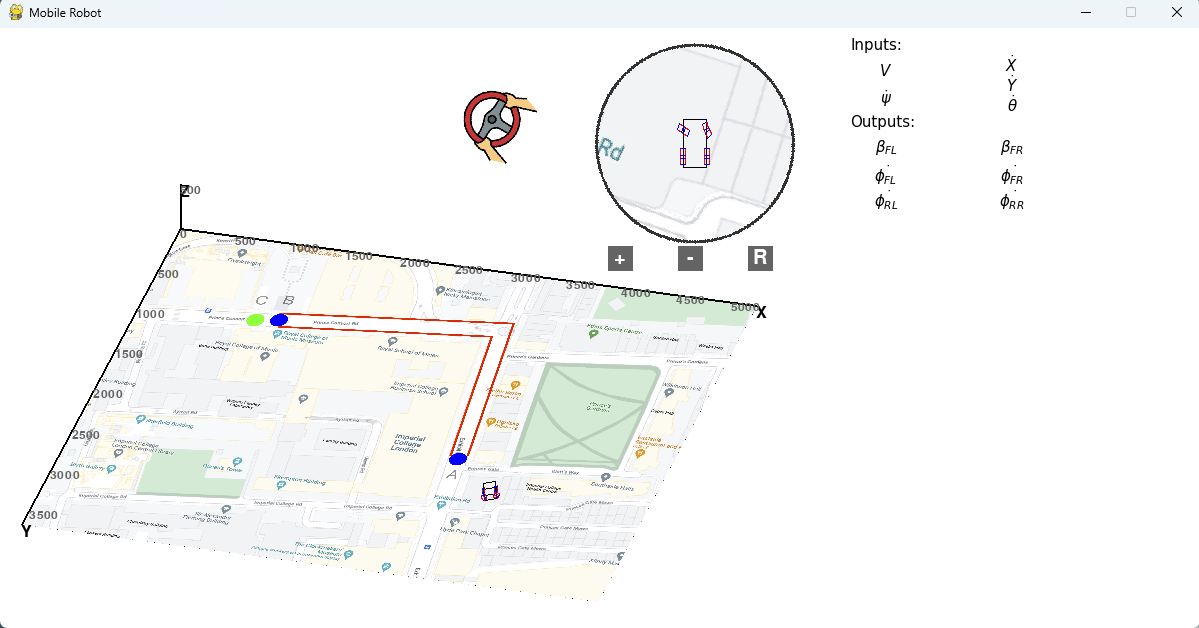
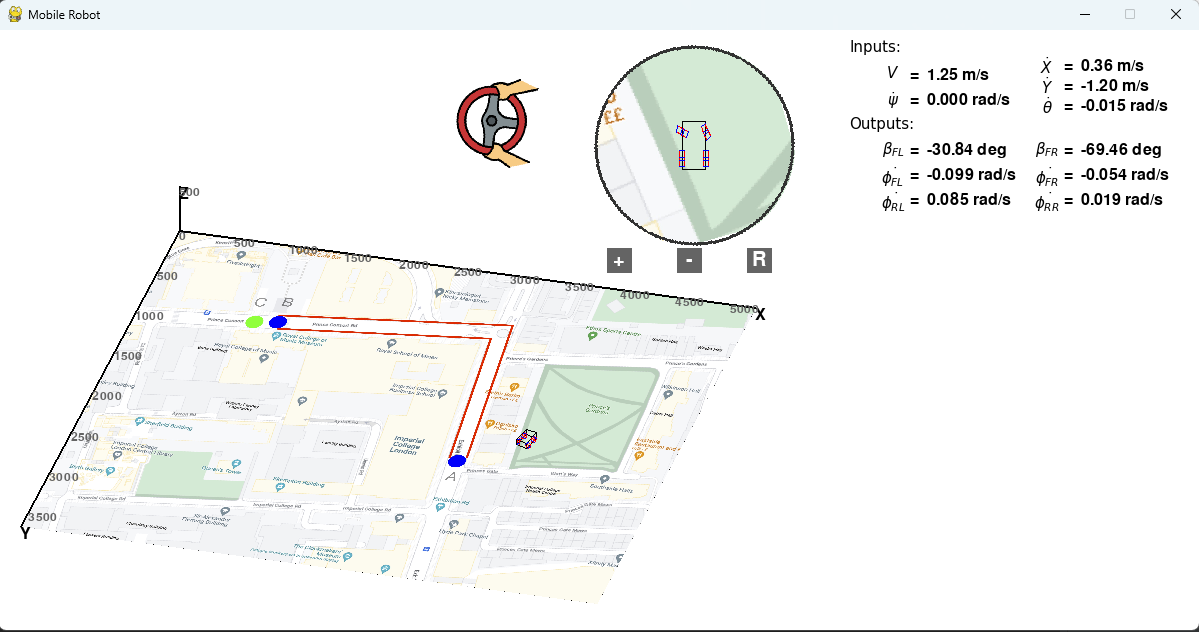
Updating kinematics values.

diff --git a/latex_window.py b/latex_window.py
@@ -13,42 +13,6 @@ import pygame
 import numpy as np
 import io
 
-
-# class LatexWindow:
-#     def __init__(self, settings, screen, car):
-#         self.settings = settings
-#         self.screen = screen
-#
-#         self.font = pygame.font.SysFont(None, 36)
-#
-#         self.symbols_surface = None
-#         self.values_surface = None
-#
-#         self.render_symbols()
-#         # self.update()
-#
-#     def render_symbols(self):
-#         self.symbols_surface = pygame.Surface(self.screen.get_size(), pygame.SRCALPHA, 32)
-#         self.symbols_surface = self.symbols_surface.convert_alpha()
-#
-#         symbol_text = "a =\nb =\nc ="
-#         text_surface = self.font.render(symbol_text, True, (255, 255, 255))
-#         self.symbols_surface.blit(text_surface, (20, 20))
-#
-#     def update(self, values=1):
-#         values = {"a": 0, "b": 0, "c": 0}
-#         self.values_surface = pygame.Surface(self.screen.get_size(), pygame.SRCALPHA, 32)
-#         self.values_surface = self.values_surface.convert_alpha()
-#
-#         values_text = f"{values['a']}\n{values['b']}\n{values['c']}"
-#         text_surface = self.font.render(values_text, True, (255, 255, 255))
-#         self.values_surface.blit(text_surface, (60, 20))
-#
-#     def draw(self):
-#         self.screen.blit(self.symbols_surface, (0, 0))
-#         self.screen.blit(self.values_surface, (0, 0))
-
-
 class LatexWindow:
     def __init__(self, settings, screen, car):
         self.settings = settings
@@ -64,17 +28,21 @@ class LatexWindow:
         text_center_aligned = {
             '$V$': (x_left, 1 / 8),
             '$\\dot{\\psi}$': (x_left, 2 / 8),
-            '$\\beta_{FL}$': (x_left, 4 / 8),
-            '$\\dot{\\phi_{FL}}$': (x_left, 5 / 8),
-            '$\\dot{\\phi_{RL}}$': (x_left, 6 / 8),
 
             '$\\dot{X}$': (x_right, 0.2 * 0.4),
             '$\\dot{Y}$': (x_right, 0.45 * 0.4),
             '$\\dot{\\theta}$': (x_right, 0.7 * 0.4),
+
+            '$\\beta_{FL}$': (x_left, 4 / 8),
+            '$\\dot{\\phi_{FL}}$': (x_left, 5 / 8),
+            '$\\dot{\\phi_{RL}}$': (x_left, 6 / 8),
+
             '$\\beta_{FR}$': (x_right, 4 / 8),
             '$\\dot{\\phi_{FR}}$': (x_right, 5 / 8),
             '$\\dot{\\phi_{RR}}$': (x_right, 6 / 8)
         }
+
+        self.symbol_pos = list(text_center_aligned.values())
 
         text_left_aligned = {
             'Inputs:': (0, 0),
@@ -82,7 +50,7 @@ class LatexWindow:
         }
         # adjust ratio to change figsize, fontsize, DPI to maximise speed
         ratio = 10
-        fig = plt.figure(figsize=(20 * ratio, 20 * ratio))
+        fig = plt.figure(figsize=(22 * ratio, 20 * ratio))
         fig.patch.set_visible(False)
         ax = fig.add_axes([0, 0, 1, 1])
         ax.axis('off')
@@ -104,24 +72,38 @@ class LatexWindow:
         #                                                self.settings.latex_region['h']))
 
     def update(self):
-        return
-        # text = '$\\theta$ + %.2f' % 1
-        # if text in self.cache:
-        #     return
-        #     # self.fig_surface = self.cache[text]
-        # else:
-        #     print('update')
-        #     self.ax.clear()
-        #     self.ax.axis('off')
-        #     self.ax.text(0.5, 0.5, text, ha='center', va='center', fontsize=36)
-        #
-        #     buf = io.BytesIO()
-        #     plt.savefig(buf, format='png', dpi=80, bbox_inches='tight', pad_inches=0)
-        #     buf.seek(0)
-        #
-        #     fig_surface = pygame.image.load(buf)
-        #     self.cache[text] = fig_surface
-        #     self.fig_surface = fig_surface
+        self.surface_updating = pygame.Surface((self.settings.latex_region['w'],
+                                  self.settings.latex_region['h']),
+                                 pygame.SRCALPHA)
+        values = [self.car.car_speed, self.car.P_i_dot[3],
+                  self.car.P_i_dot[0], self.car.P_i_dot[1], self.car.P_i_dot[2],
+                  self.car.wheels_orientation[0] * 180 / np.pi,
+                  self.car.wheels_speed[0], self.car.wheels_speed[2],
+                  self.car.wheels_orientation[1] * 180 / np.pi,
+                  self.car.wheels_speed[1], self.car.wheels_speed[3]]
+        units = ['m/s', 'rad/s', 'm/s', 'm/s', 'rad/s',
+                 'deg', 'rad/s', 'rad/s', 'deg', 'rad/s', 'rad/s']
+
+        font = pygame.font.Font(None, 24)
+        rect = self.surface_rendered.get_rect()
+        w = rect.width
+        h = rect.height
+        print(w, h)
+        for i, (val, unit) in enumerate(zip(values, units)):
+            if unit == 'rad/s':
+                text = '=  %.3f' % val + ' ' + unit
+            else:
+                text = '=  %.2f' % val + ' ' + unit
+            label = font.render(text, True, (0, 0, 0))
+
+            label_width = label.get_width()
+            label_height = label.get_height()
+            pos_x = int((self.symbol_pos[i][0]+0.08) * w)
+            pos_y = int((self.symbol_pos[i][1]+0.02) * h + label_height / 2)
+            pos = (pos_x, pos_y)
+
+            self.surface_updating.blit(label, pos)
 
     def draw(self):
         self.screen.blit(self.surface_rendered, (0, 0))
+        self.screen.blit(self.surface_updating, (0, 0))

diff --git a/main.py b/main.py
@@ -60,17 +60,15 @@ def run_game():
         screen.blit(screen2, settings.latex_region['topleft'])
         pygame.display.update()
 
-        i += 1
-        if i == 1000:
-            i = 1
-            for j in range(10):
-                print('reset')
-        end = time.time()
-        last = avg
-        new = end - start
-        avg = (last*(i-1) + new)/i
-        print('average time interval: ', avg)
-        # print('next')
-        # time.sleep(1)
+        # i += 1
+        # if i == 1000:
+        #     i = 1
+        #     for j in range(10):
+        #         print('reset')
+        # end = time.time()
+        # last = avg
+        # new = end - start
+        # avg = (last*(i-1) + new)/i
+        # print('average time interval: ', avg)
 
 run_game()

diff --git a/game_function.py b/game_function.py
@@ -106,7 +106,7 @@ def update_screen(settings, screen1, screen2,
     # z_factor = settings.z_factor
     # origin2d = settings.origin2d
     screen1.fill(settings.map_screen['bg_color'])
-    screen2.fill(settings.map_screen['bg_color'])
+    screen2.fill(settings.latex_region['bg_color'])
 
     workspace.draw()
     car.draw()
